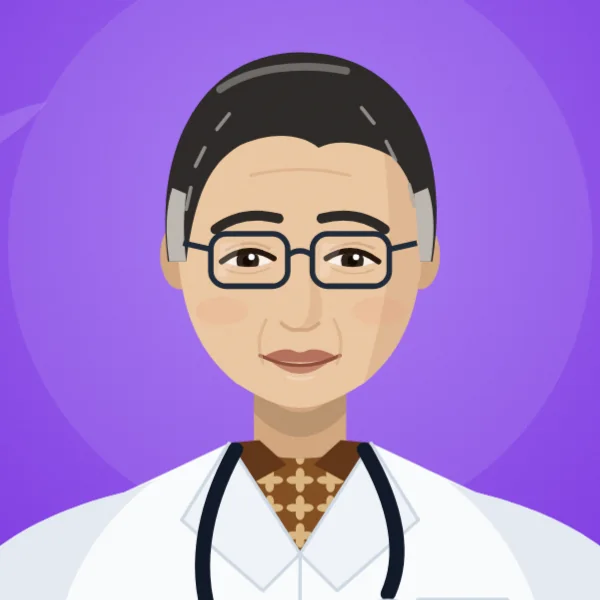
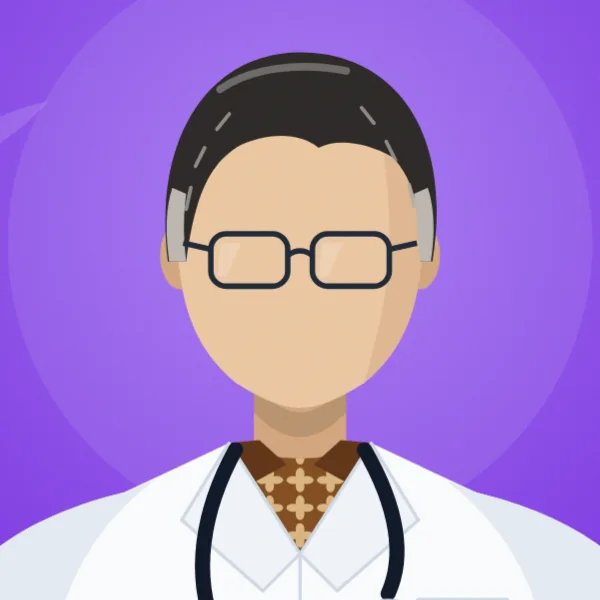
Potret dokter berwajah polos, og.jpg diperbarui, teks kecil dinaikkan ke 12 px

Changed region(s): [[0.33, 0.33, 0.48, 0.45], [0.51, 0.33, 0.66, 0.45], [0.42, 0.54, 0.57, 0.63]]

diff --git a/components/KlinikApp.jsx b/components/KlinikApp.jsx
@@ -103,7 +103,7 @@ export default function KlinikApp() {
                   <span className={`flex h-8 w-8 items-center justify-center rounded-full text-xs font-bold transition ${active ? 'bg-blue-700 text-white' : 'bg-slate-200 text-slate-600'}`}>
                     {step > n ? <Check size={15} aria-hidden="true" /> : n}
                   </span>
-                  <span className={`text-[11px] font-semibold ${active ? 'text-blue-800' : 'text-slate-600'}`}>{s}</span>
+                  <span className={`text-xs font-semibold ${active ? 'text-blue-800' : 'text-slate-600'}`}>{s}</span>
                 </div>
                 {i < STEPS.length - 1 && <div className={`mx-2 h-1 flex-1 rounded-full ${step > n ? 'bg-blue-700' : 'bg-slate-200'}`} aria-hidden="true" />}
               </li>
@@ -158,7 +158,7 @@ export default function KlinikApp() {
                     {hariPraktik.map((d) => (
                       <button key={d} type="button" onClick={() => { setDate(d); setTime(null); }} aria-pressed={date === d}
                         className={`shrink-0 rounded-lg border px-3 py-2 text-center text-sm transition ${date === d ? 'border-blue-700 bg-blue-700 text-white' : 'border-slate-300 bg-white text-slate-800 hover:border-blue-500'}`}>
-                        <span className="block text-[11px] uppercase">{HARI[hariKe(d)].slice(0, 3)}</span>
+                        <span className="block text-xs uppercase">{HARI[hariKe(d)].slice(0, 3)}</span>
                         <span className="block font-bold">{fmtTanggal(d, { day: 'numeric', month: 'short' })}</span>
                       </button>
                     ))}

diff --git a/public/images/SUMBER.md b/public/images/SUMBER.md
@@ -1,7 +1,7 @@
 # Sumber gambar — Klinik Rumpun Waras
 
 Semua gambar di situs ini **ilustrasi buatan sendiri** (PintuWeb, Okt 2026). Dokter dan klinik fiktif; potret ini bukan
-wajah orang sungguhan dan tidak memakai foto stok.
+wajah orang sungguhan: wajahnya polos (tanpa mata, alis, hidung, mulut; diubah 30 Okt 2026) dan tidak memakai foto stok.
 
 | Berkas | Isi | Pembuat | Lisensi |
 |---|---|---|---|
